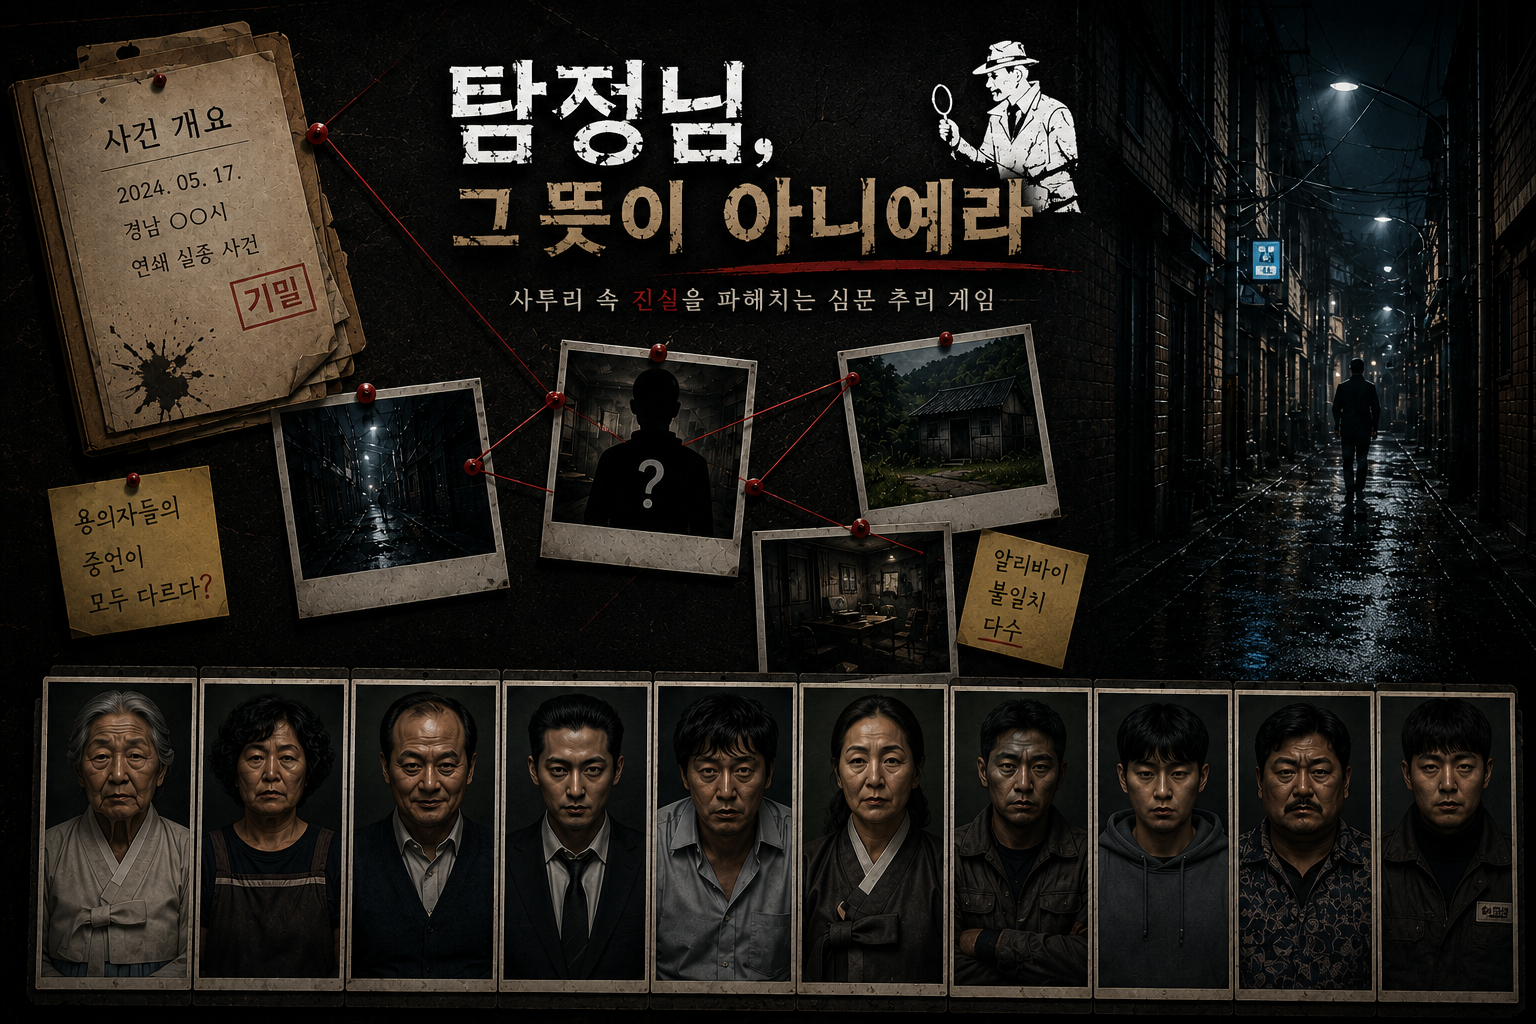
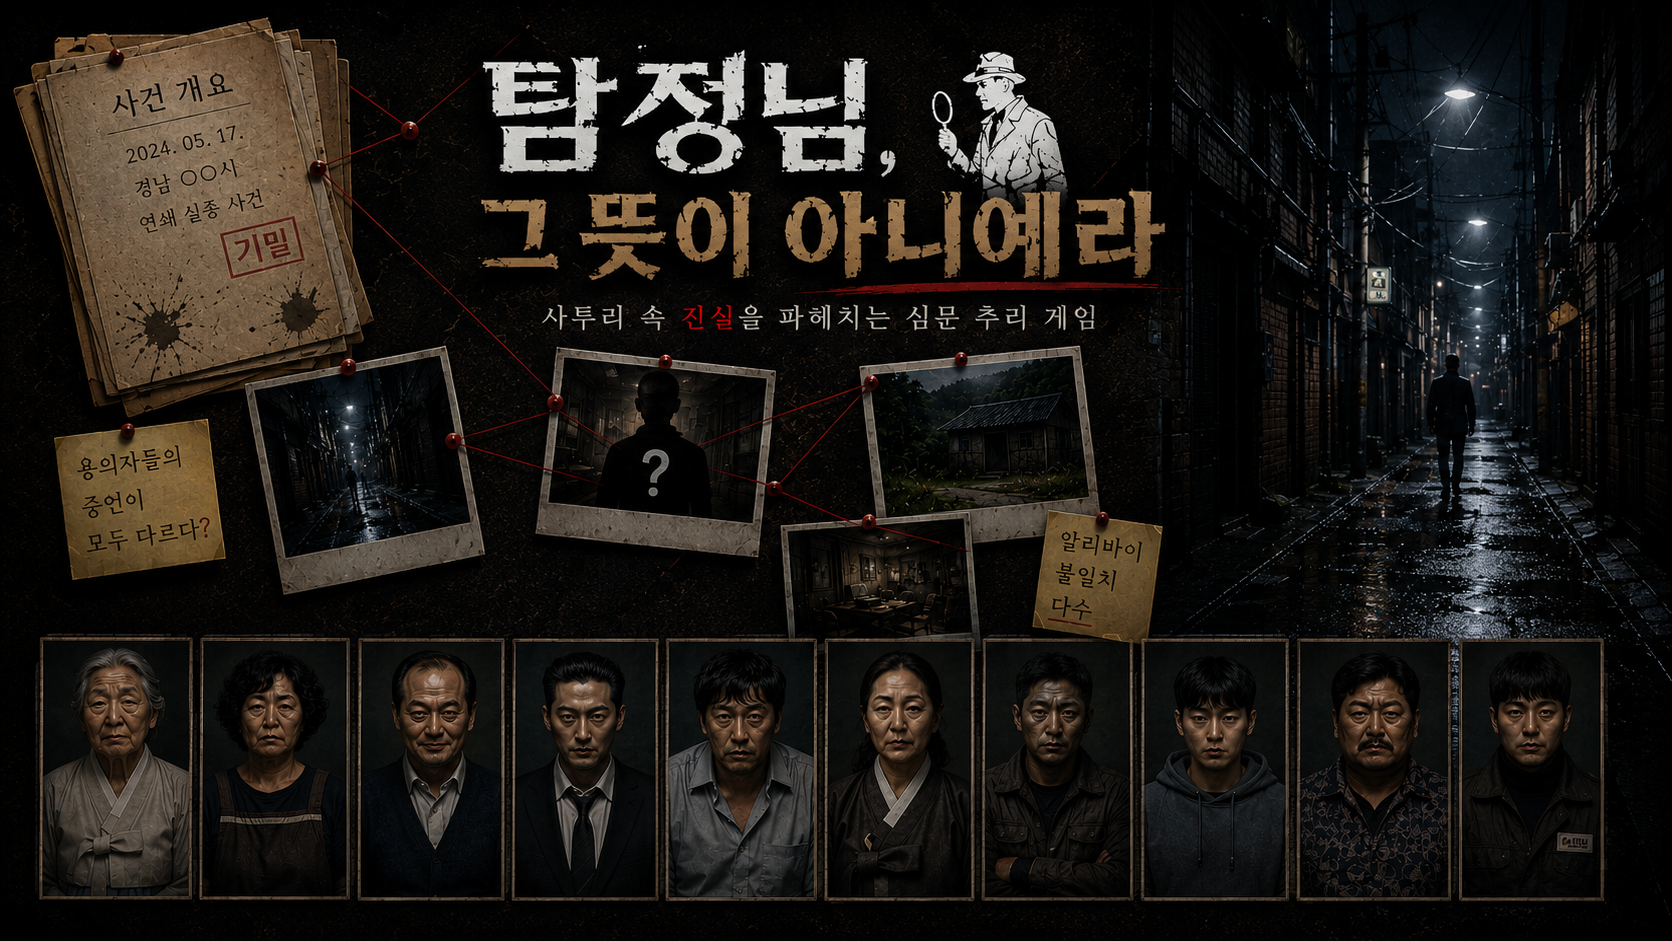
fix(frontend): 사건 이미지 흰 테두리 제거 및 홈 화면 배경/버튼 위치 조정
- 사건 카드/상세 이미지에 살짝 확대(scale-105) 적용해 가장자리 흰 선 제거
- home.png를 16:9 비율 새 버전으로 교체
- 홈 화면 버튼 영역을 하단에서 살짝 띄워 배치, 몽타주 사진과 겹치지 않게 조정

diff --git a/frontend/src/app/episodes/[episodeId]/page.tsx b/frontend/src/app/episodes/[episodeId]/page.tsx
@@ -28,7 +28,7 @@ export default function EpisodePage() {
     <AppHeader />
     <Link href="/regions" className="text-sm opacity-70">← 지역 목록</Link>
     {detail.loading ? <LoadingState /> : detail.error ? <ErrorState error={detail.error} retry={detail.reload} /> : detail.data ? <>
-      {resolveEpisodeImage(detail.data) && <div className="relative aspect-[16/9] w-full overflow-hidden border border-brass-600/30"><Image src={resolveEpisodeImage(detail.data)!} alt={detail.data.title} fill sizes="(min-width: 768px) 768px, 100vw" className="object-cover" /></div>}
+      {resolveEpisodeImage(detail.data) && <div className="relative aspect-[16/9] w-full overflow-hidden border border-brass-600/30"><Image src={resolveEpisodeImage(detail.data)!} alt={detail.data.title} fill sizes="(min-width: 768px) 768px, 100vw" className="scale-105 object-cover" /></div>}
       <header><p className="text-xs text-evidence-red">{detail.data.code} · {detail.data.incidentType}</p><h1 className="mt-2 font-display text-4xl">{detail.data.title}</h1><p className="mt-3 opacity-70">{detail.data.synopsis}</p></header>
       <section className="border border-brass-600/30 bg-noir-900/70 p-5"><h2 className="font-bold text-brass-400">피해자</h2><p className="mt-2">{detail.data.victim.name} · {detail.data.victim.age ?? '나이 미상'}세 · {detail.data.victim.occupation ?? '직업 미상'}</p></section>
       {scene.data && <section><h2 className="mb-3 font-display text-2xl">초기 현장 증거</h2>{scene.data.evidence.length ? <div className="grid gap-3 md:grid-cols-2">{scene.data.evidence.map((item) => <div key={item.id} className="border border-brass-600/30 p-4"><b>{item.title}</b><p className="mt-1 text-sm opacity-60">{item.description}</p></div>)}</div> : <EmptyState label="공개된 초기 증거가 없습니다." />}</section>}

diff --git a/frontend/src/app/page.tsx b/frontend/src/app/page.tsx
@@ -3,4 +3,4 @@ import Image from 'next/image';
 import Link from 'next/link';
 import { useRouter } from 'next/navigation';
 import { useAuth } from '@/features/auth/AuthProvider';
-export default function HomePage(){const auth=useAuth();const router=useRouter();async function logout(){await auth.signOut();router.replace('/login')}return <main className="relative flex min-h-screen flex-col justify-end overflow-hidden bg-noir-950 px-6 pb-10 text-parchment-100"><Image src="/images/ui/home.png" alt="탐정님, 그 뜻이 아니예라" fill priority sizes="100vw" className="pointer-events-none object-cover object-top" /><div className="pointer-events-none absolute inset-0 bg-gradient-to-b from-transparent via-noir-950/40 to-noir-950" /><div className="relative mx-auto w-full max-w-xl space-y-6 text-center"><p className="font-display text-2xl drop-shadow">{auth.profile?`${auth.profile.displayName??'탐정'}님,`:'사투리 속 진실을 찾아라'}</p><nav className="grid gap-3"><Link className="bg-evidence-red py-4 font-bold" href={auth.profile?'/regions':'/login'}>사건 수사 시작</Link><Link className="border border-brass-600/40 bg-noir-950/60 py-4" href={auth.profile?'/profile/history':'/login'}>수사 기록 보기</Link><Link className="border border-brass-600/40 bg-noir-950/60 py-4" href={auth.profile?'/profile/dialects':'/login'}>사투리 기록집</Link></nav>{auth.profile&&<button onClick={logout} className="text-sm opacity-60">로그아웃</button>}</div></main>}
+export default function HomePage(){const auth=useAuth();const router=useRouter();async function logout(){await auth.signOut();router.replace('/login')}return <main className="relative flex min-h-screen flex-col justify-end overflow-hidden bg-noir-950 px-6 pb-24 text-parchment-100"><Image src="/images/ui/home.png" alt="탐정님, 그 뜻이 아니예라" fill priority sizes="100vw" className="pointer-events-none object-cover object-top" /><div className="pointer-events-none absolute inset-0 bg-gradient-to-b from-transparent via-noir-950/40 to-noir-950" /><div className="relative mx-auto w-full max-w-xl space-y-6 text-center"><p className="font-display text-2xl drop-shadow">{auth.profile?`${auth.profile.displayName??'탐정'}님,`:'사투리 속 진실을 찾아라'}</p><nav className="grid gap-3"><Link className="bg-evidence-red py-4 font-bold" href={auth.profile?'/regions':'/login'}>사건 수사 시작</Link><Link className="border border-brass-600/40 bg-noir-950/60 py-4" href={auth.profile?'/profile/history':'/login'}>수사 기록 보기</Link><Link className="border border-brass-600/40 bg-noir-950/60 py-4" href={auth.profile?'/profile/dialects':'/login'}>사투리 기록집</Link></nav>{auth.profile&&<button onClick={logout} className="text-sm opacity-60">로그아웃</button>}</div></main>}

diff --git a/frontend/src/app/regions/page.tsx b/frontend/src/app/regions/page.tsx
@@ -56,7 +56,7 @@ export default function RegionsPage() {
           </div>
         </section>
         <section>
-          {episodes.loading ? <LoadingState label="사건 목록을 불러오는 중..." /> : episodes.error ? <ErrorState error={episodes.error} retry={episodes.reload} /> : !episodes.data?.length ? <EmptyState label="공개된 사건이 없습니다." /> : <div className="space-y-4">{episodes.data.map((episode) => { const image = resolveEpisodeImage(episode); return <article key={episode.id} className="overflow-hidden border border-brass-600/30 bg-noir-900/70">{image && <div className="relative aspect-[16/9] w-full"><Image src={image} alt={episode.title} fill sizes="(min-width: 768px) 640px, 100vw" className="object-cover" /></div>}<div className="p-6"><p className="text-xs text-evidence-red">{episode.code}</p><h2 className="mt-2 font-display text-2xl">{episode.title}</h2><p className="mt-2 text-sm opacity-70">{episode.synopsis}</p><p className="mt-4 text-xs opacity-50">예상 {episode.estimatedPlayMinutes}분 · {episode.progressStatus ?? '미시작'}</p><Link href={`/episodes/${episode.id}`} className="mt-5 inline-block bg-evidence-red px-5 py-2 font-bold">사건 보기 →</Link></div></article>; })}</div>}
+          {episodes.loading ? <LoadingState label="사건 목록을 불러오는 중..." /> : episodes.error ? <ErrorState error={episodes.error} retry={episodes.reload} /> : !episodes.data?.length ? <EmptyState label="공개된 사건이 없습니다." /> : <div className="space-y-4">{episodes.data.map((episode) => { const image = resolveEpisodeImage(episode); return <article key={episode.id} className="overflow-hidden border border-brass-600/30 bg-noir-900/70">{image && <div className="relative aspect-[16/9] w-full overflow-hidden"><Image src={image} alt={episode.title} fill sizes="(min-width: 768px) 640px, 100vw" className="scale-105 object-cover" /></div>}<div className="p-6"><p className="text-xs text-evidence-red">{episode.code}</p><h2 className="mt-2 font-display text-2xl">{episode.title}</h2><p className="mt-2 text-sm opacity-70">{episode.synopsis}</p><p className="mt-4 text-xs opacity-50">예상 {episode.estimatedPlayMinutes}분 · {episode.progressStatus ?? '미시작'}</p><Link href={`/episodes/${episode.id}`} className="mt-5 inline-block bg-evidence-red px-5 py-2 font-bold">사건 보기 →</Link></div></article>; })}</div>}
         </section>
       </div>}
     </div>